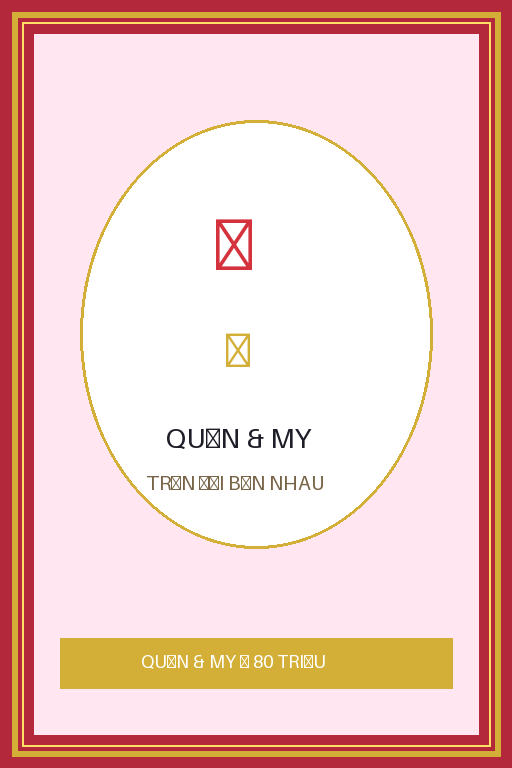
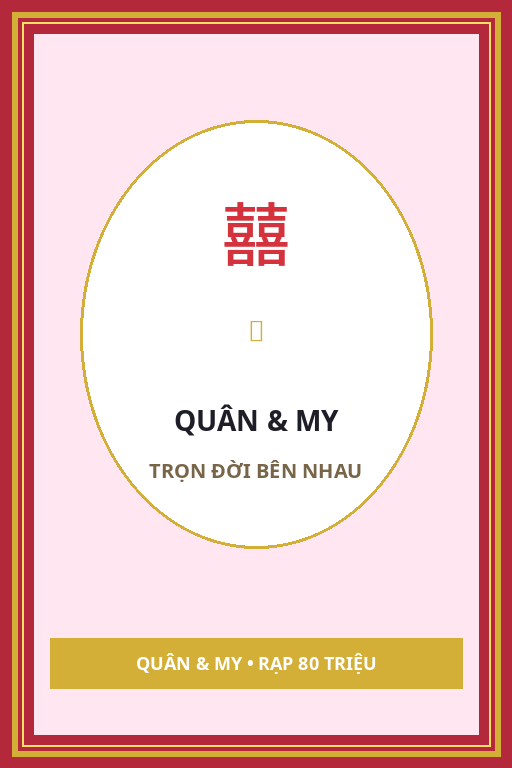
feat: Dong bo am thanh toan phong theo realtime server, sua huong di tien khong bi quay lung di lui, sua loi font chu tieng Viet tren bien chao & tranh anh, them glow den chum & hieu ung slide man hinh LED

diff --git a/game.js b/game.js
@@ -80,6 +80,7 @@ const bgm = new Audio('assets/audio/dam-cuoi.mp3');
 bgm.loop = true;
 bgm.volume = 0.38; // Upbeat background level perfectly balanced under MC voice
 let isBgmPlaying = false;
+let serverSyncedBgmTime = 0;
 
 let audioCtx = null;
 function getAudioContext() {
@@ -177,6 +178,7 @@ function initGame() {
   scene.fog = new THREE.FogExp2(0x14060e, 0.009);
 
   const camera = new THREE.PerspectiveCamera(54, window.innerWidth / window.innerHeight, 0.1, 150);
+  camera.position.set(0, 3.0, 34.0); // Khởi tạo camera ngay phía sau vị trí spawn ở cổng cưới
 
   const renderer = new THREE.WebGLRenderer({ canvas, antialias: true, powerPreference: 'high-performance', precision: 'mediump' });
   window.__renderer = renderer;
@@ -464,7 +466,7 @@ function initGame() {
     scene.add(swag);
   }
 
-  // 5. Fairy Lights Points (Đèn trần sao lung linh ở độ cao lớn)
+  // 5. Fairy Lights Points (Đèn trần sao lung linh phát sáng rực rỡ ở độ cao lớn)
   const fairyPointsGeo = new THREE.BufferGeometry();
   const fairyPositions = [];
   for (let z = -16; z <= 28; z += 2.0) {
@@ -475,18 +477,24 @@ function initGame() {
     }
   }
   fairyPointsGeo.setAttribute('position', new THREE.Float32BufferAttribute(fairyPositions, 3));
-  const fairyPointsMat = new THREE.PointsMaterial({ color: 0xffecb3, size: 0.12, sizeAttenuation: true });
+  const fairyPointsMat = new THREE.PointsMaterial({
+    color: 0xfff3d0,
+    size: 0.28,
+    sizeAttenuation: true,
+    transparent: true,
+    opacity: 0.95
+  });
   const fairyPoints = new THREE.Points(fairyPointsGeo, fairyPointsMat);
   scene.add(fairyPoints);
 
-  // 6. Chandeliers (Nâng cao lên Y = 6.6m - 7.0m để giải phóng 100% tầm nhìn tới màn hình LED)
+  // 6. Chandeliers (Nâng cao lên Y = 6.6m - 7.0m, bổ sung bóng hào quang phát sáng Glow rực rỡ)
   const chandelierMat = new THREE.MeshStandardMaterial({
     color: 0xd4af37, metalness: 0.95, roughness: 0.1,
-    emissive: 0x553300, emissiveIntensity: 0.4
+    emissive: 0x885500, emissiveIntensity: 0.8
   });
   const crystalMat = new THREE.MeshStandardMaterial({
-    color: 0xffffff, roughness: 0.1, transparent: true, opacity: 0.9,
-    emissive: 0xffe8aa, emissiveIntensity: 0.6
+    color: 0xffffff, roughness: 0.1, transparent: true, opacity: 0.95,
+    emissive: 0xfff0aa, emissiveIntensity: 1.4
   });
 
   function makeOptimizedChandelier(scale = 1.0) {
@@ -503,6 +511,21 @@ function initGame() {
     ring2.rotation.x = Math.PI / 2;
     ring2.position.y = -0.5 * scale;
     chGroup.add(ring2);
+
+    // Quả cầu phát sáng hào quang trung tâm đèn chùm (Chandelier Glow Core)
+    const bulbCore = new THREE.Mesh(
+      new THREE.SphereGeometry(0.35 * scale, 10, 10),
+      new THREE.MeshBasicMaterial({ color: 0xfff8d0, transparent: true, opacity: 0.9 })
+    );
+    bulbCore.position.y = -0.3 * scale;
+    chGroup.add(bulbCore);
+
+    const glowHalo = new THREE.Mesh(
+      new THREE.SphereGeometry(0.85 * scale, 10, 10),
+      new THREE.MeshBasicMaterial({ color: 0xffe082, transparent: true, opacity: 0.35 })
+    );
+    glowHalo.position.y = -0.3 * scale;
+    chGroup.add(glowHalo);
 
     for (let a = 0; a < Math.PI * 2; a += Math.PI / 5) {
       const cr = new THREE.Mesh(new THREE.ConeGeometry(0.09 * scale, 0.45 * scale, 4), crystalMat);
@@ -695,14 +718,40 @@ function initGame() {
   stageTrim.position.y = 1.0;
   stageGroup.add(stageTrim);
 
-  // High-Resolution Widescreen LED Screen
-  const stageScreenTex = texLoader.load('assets/images/stage_screen_hires.png');
+  // High-Resolution Widescreen LED Screen with Dynamic Slideshow (Chuyển slide ảnh cưới động như màn hình LED thật)
+  const slideTextures = [
+    texLoader.load('assets/images/stage_screen_hires.png'),
+    texLoader.load('assets/images/wedding_concept_overview.jpg'),
+    texLoader.load('assets/images/wedding_concept_stage.jpg'),
+    texLoader.load('assets/images/wedding_concept_isometric_game.jpg')
+  ];
+  let currentSlideIdx = 0;
+  let nextSlideIdx = 1;
+  let slideTransition = 0; // 0 to 1
+
+  const ledScreenMat = new THREE.MeshBasicMaterial({
+    map: slideTextures[0],
+    color: 0xffffff
+  });
+
   const ledScreen = new THREE.Mesh(
     new THREE.PlaneGeometry(21, 8.5),
-    new THREE.MeshBasicMaterial({ map: stageScreenTex })
+    ledScreenMat
   );
   ledScreen.position.set(0, 5.25, -4.2);
   stageGroup.add(ledScreen);
+
+  // Đèn rọi màn hình LED và viền phát sáng rực rỡ
+  const ledGlowLight = new THREE.PointLight(0xff4488, 3.5, 22, 1.2);
+  ledGlowLight.position.set(0, 5.25, -2.5);
+  stageGroup.add(ledGlowLight);
+
+  const ledGlowPlane = new THREE.Mesh(
+    new THREE.PlaneGeometry(21.4, 8.9),
+    new THREE.MeshBasicMaterial({ color: 0xff2255, transparent: true, opacity: 0.18 })
+  );
+  ledGlowPlane.position.set(0, 5.25, -4.22);
+  stageGroup.add(ledGlowPlane);
 
   // Black Starcloth Wings
   const starClothMat = new THREE.MeshStandardMaterial({ color: 0x08080c, roughness: 0.95 });
@@ -827,7 +876,7 @@ function initGame() {
   // Local Player Container on Red Carpet (Spawn ngay Cổng Cưới Z = 28.5)
   const playerGroup = new THREE.Group();
   playerGroup.position.set(0, 0, 28.5);
-  playerGroup.rotation.y = Math.PI; // Lưng quay về camera, mặt hướng thẳng tới sân khấu
+  playerGroup.rotation.y = 0; // 0 rad = mặt hướng về Z âm (sân khấu), lưng quay về camera!
   scene.add(playerGroup);
 
   let playerMeshBones = null;
@@ -1318,7 +1367,7 @@ function initGame() {
     const tmpl = (playerGender === 'female') ? avatarTemplates.female : avatarTemplates.male;
     const model = cloneSkinnedGltf(tmpl);
     model.scale.set(1.35, 1.35, 1.35);
-    model.rotation.y = 0; // Model chuẩn gốc hướng về phía trước theo group
+    model.rotation.y = Math.PI; // Xoay 180 độ để lưng quay về camera, mặt hướng thẳng tới sân khấu đám cưới!
 
     applyOutfitColor(model, playerOutfitColor);
     attachAccessories(model, playerHasGlasses, playerHasSlippers);
@@ -1391,7 +1440,7 @@ function initGame() {
     const tmpl = isWoman ? avatarTemplates.female : avatarTemplates.male;
     const model = cloneSkinnedGltf(tmpl);
     model.scale.set(1.35, 1.35, 1.35);
-    model.rotation.y = 0; // Model chuẩn gốc hướng về phía trước theo group
+    model.rotation.y = Math.PI; // Hướng mặt về phía sân khấu, lưng hướng về camera!
 
     applyOutfitColor(model, data.outfitColor || '#111827');
     attachAccessories(model, data.hasGlasses !== false, !!data.hasSlippers);
@@ -1563,16 +1612,31 @@ function initGame() {
             }
             if (data.assignedSpawn) {
               playerGroup.position.set(data.assignedSpawn.x, 0, data.assignedSpawn.z);
-              playerGroup.rotation.y = Math.PI;
-              currentFacingAngle = Math.PI;
+              playerGroup.rotation.y = 0;
+              currentFacingAngle = 0;
               lastSentX = data.assignedSpawn.x;
               lastSentZ = data.assignedSpawn.z;
-              lastSentRotY = Math.PI;
+              lastSentRotY = 0;
             }
             data.players.forEach(p => {
               if (p && p.id !== selfPlayerId) createRemotePlayer(p);
             });
             updateOnlineCountBadge(data.onlineCount);
+
+            // Đồng bộ tiến trình nhạc đám cưới toàn phòng theo thời gian thực của máy chủ
+            if (data.bgmCurrentTime !== undefined) {
+              serverSyncedBgmTime = data.bgmCurrentTime;
+              if (isBgmPlaying && Math.abs(bgm.currentTime - serverSyncedBgmTime) > 2.0) {
+                bgm.currentTime = serverSyncedBgmTime;
+              }
+            }
+          } else if (data.type === 'music_sync') {
+            if (data.currentTime !== undefined) {
+              serverSyncedBgmTime = data.currentTime;
+              if (isBgmPlaying && !bgm.paused && Math.abs(bgm.currentTime - serverSyncedBgmTime) > 3.0) {
+                bgm.currentTime = serverSyncedBgmTime;
+              }
+            }
           } else if (data.type === 'player_joined') {
             if (data.player && data.player.id !== selfPlayerId) {
               createRemotePlayer(data.player);
@@ -1747,18 +1811,21 @@ function initGame() {
     });
   }
 
-  // Camera & Touch Controls (Góc nhìn từ trên xuống 16 độ, cách 5.8m để toàn bộ avatar, biển tên và bọt thoại hiển thị thoáng đãng!)
-  let cameraYaw = 0;
-  let cameraPitch = 0.28;
+  // Camera & Touch Controls:
+  // Sân khấu nằm ở Z = -24 (hướng Z âm), Cổng cưới ở Z = 28.5 (hướng Z dương).
+  // Đặt camera nằm phía sau lưng avatar (camOffset.z > 0) nhìn về phía trước sân khấu:
+  let cameraYaw = 0; // Math.cos(0) = +1 -> camOffset.z > 0 (camera ở phía sau avatar, nhìn về phía trước)
+  let cameraPitch = 0.22;
   let cameraDistance = 5.8;
   const cameraTargetOffset = new THREE.Vector3(0, 0.85, 0);
 
   const input = { stickX: 0, stickY: 0, keyW: false, keyA: false, keyS: false, keyD: false };
   const playerSpeed = 7.0;
-  let currentFacingAngle = Math.PI;
+  let currentFacingAngle = 0; // 0 radian = nhìn thẳng về Z âm (về phía sân khấu, lưng hướng về camera!)
   let walkCycle = 0;
 
   const cameraSwipeZone = document.getElementById('cameraSwipeZone');
+  let hasInitialCameraSnapped = false;
   let isSwiping = false;
   let lastTouchX = 0, lastTouchY = 0;
 
@@ -2140,15 +2207,18 @@ function initGame() {
       playSound('cheer');
       blastConfetti(playerGroup.position.x, 3, playerGroup.position.z);
 
-      // 1. TỰ ĐỘNG PHÁT NHẠC SỐNG HÀ TÂY ĐÁM CƯỚI NGÀY XƯA SÔI ĐỘNG!
+      // 1. TỰ ĐỘNG PHÁT NHẠC ĐÁM CƯỚI ĐỒNG BỘ TOÀN BỘ KHÁCH MỜI!
       isBgmPlaying = true;
-      bgm.currentTime = 0;
+      if (serverSyncedBgmTime > 0) {
+        bgm.currentTime = serverSyncedBgmTime;
+      }
       bgm.play().then(() => {
         updateBgmBtnState();
       }).catch(e => {
         console.log("BGM autoplay waiting for touch:", e);
         const unlockAudio = () => {
           if (isBgmPlaying && bgm.paused) {
+            if (serverSyncedBgmTime > 0) bgm.currentTime = serverSyncedBgmTime;
             bgm.play().then(() => updateBgmBtnState()).catch(() => {});
           }
           window.removeEventListener('pointerdown', unlockAudio);
@@ -2310,14 +2380,29 @@ function initGame() {
   // Animation Loop & Network Sync
   const clock = new THREE.Clock();
   let lastNetSyncTime = 0;
-  let lastSentX = 0, lastSentZ = 28.5, lastSentRotY = Math.PI;
+  let lastSentX = 0, lastSentZ = 28.5, lastSentRotY = 0;
   let wasMoving = false;
 
+  let lastSlideChangeTime = 0;
   function animate() {
     requestAnimationFrame(animate);
 
     const delta = Math.min(clock.getDelta(), 0.1);
     const now = performance.now();
+
+    // Hiệu ứng màn hình LED phát sáng & chuyển slide ảnh cưới động (mỗi 4.5 giây đổi ảnh kèm hiệu ứng fade nhấp nháy ánh sáng)
+    if (now - lastSlideChangeTime > 4500 && slideTextures.length > 0) {
+      lastSlideChangeTime = now;
+      currentSlideIdx = (currentSlideIdx + 1) % slideTextures.length;
+      if (ledScreenMat) {
+        ledScreenMat.map = slideTextures[currentSlideIdx];
+        ledScreenMat.needsUpdate = true;
+      }
+    }
+    // Hiệu ứng LED rực rỡ nhấp nháy nhẹ theo nhịp điệu sân khấu
+    if (ledGlowLight) {
+      ledGlowLight.intensity = 3.2 + Math.sin(now * 0.003) * 0.9;
+    }
 
     let moveX = input.stickX;
     let moveZ = input.stickY;
@@ -2349,7 +2434,7 @@ function initGame() {
       playerGroup.position.x += worldMoveX * playerSpeed * delta;
       playerGroup.position.z += worldMoveZ * playerSpeed * delta;
 
-      const targetAngle = Math.atan2(worldMoveX, -worldMoveZ);
+      const targetAngle = Math.atan2(worldMoveX, worldMoveZ);
       
       let diff = targetAngle - currentFacingAngle;
       while (diff < -Math.PI) diff += Math.PI * 2;
@@ -2555,7 +2640,12 @@ function initGame() {
     );
 
     const desiredCamPos = playerGroup.position.clone().add(camOffset);
-    camera.position.lerp(desiredCamPos, 0.22);
+    if (!hasInitialCameraSnapped) {
+      camera.position.copy(desiredCamPos);
+      hasInitialCameraSnapped = true;
+    } else {
+      camera.position.lerp(desiredCamPos, 0.22);
+    }
     camera.lookAt(lookTarget);
 
     confettiMeshes.forEach(c => {
@@ -2615,9 +2705,13 @@ function initGame() {
 
   // Expose debug handle for validation & tests
   window.__game = {
+    camera,
+    scene,
     playerGroup,
     remotePlayers,
     input,
+    getCameraYaw: () => cameraYaw,
+    setCameraYaw: y => { cameraYaw = y; },
     getSelfPlayerId: () => selfPlayerId,
     getSocket: () => socket,
     getGroundElevation,

diff --git a/server.js b/server.js
@@ -81,6 +81,8 @@ const wss = new WebSocketServer({ server });
 const players = new Map(); // ws -> playerState
 
 let guestCounter = 1;
+const serverStartTime = Date.now();
+const BGM_DURATION_SECONDS = 1116; // 18m36s of /home/zorinpc/dam-cuoi.mp3
 
 // Staggered distinct spawn points right at the Grand Wedding Entrance Gate (Cổng Cưới)
 const SPAWN_OFFSETS = [
@@ -132,7 +134,7 @@ wss.on('connection', (ws) => {
           hasSlippers: !!data.hasSlippers,
           x: defaultSpawn.x,
           z: defaultSpawn.z,
-          rotY: Math.PI, // Facing forward towards stage!
+          rotY: 0, // Facing forward towards stage (Z âm)!
           isWalking: false,
           isSeated: false,
           currentAnim: 'idle',
@@ -146,13 +148,17 @@ wss.on('connection', (ws) => {
           if (otherWs !== ws) existingList.push(pState);
         });
 
+        // Tính toán vị trí đồng bộ chính xác của bài nhạc đám cưới theo thời gian thực toàn cầu
+        const elapsedSec = ((Date.now() - serverStartTime) / 1000) % BGM_DURATION_SECONDS;
+
         ws.send(JSON.stringify({
           type: 'init',
           selfId: ws.playerId,
           assignedName: uniqueName,
           assignedSpawn: { x: playerState.x, z: playerState.z },
           players: existingList,
-          onlineCount: players.size
+          onlineCount: players.size,
+          bgmCurrentTime: elapsedSec
         }));
 
         // 2. Broadcast new player join to all OTHER connected clients!
@@ -262,8 +268,9 @@ wss.on('connection', (ws) => {
   });
 });
 
-// Periodic Heartbeat to clean up dead/closed sockets immediately
+// Periodic Heartbeat to clean up dead sockets & sync global wedding music timeline
 const heartbeatInterval = setInterval(() => {
+  const currentBgmSec = ((Date.now() - serverStartTime) / 1000) % BGM_DURATION_SECONDS;
   wss.clients.forEach((ws) => {
     if (ws.isAlive === false) {
       const p = players.get(ws);
@@ -275,6 +282,9 @@ const heartbeatInterval = setInterval(() => {
     }
     ws.isAlive = false;
     ws.ping();
+    if (ws.readyState === 1) {
+      ws.send(JSON.stringify({ type: 'music_sync', currentTime: currentBgmSec }));
+    }
   });
 }, 5000);
 
